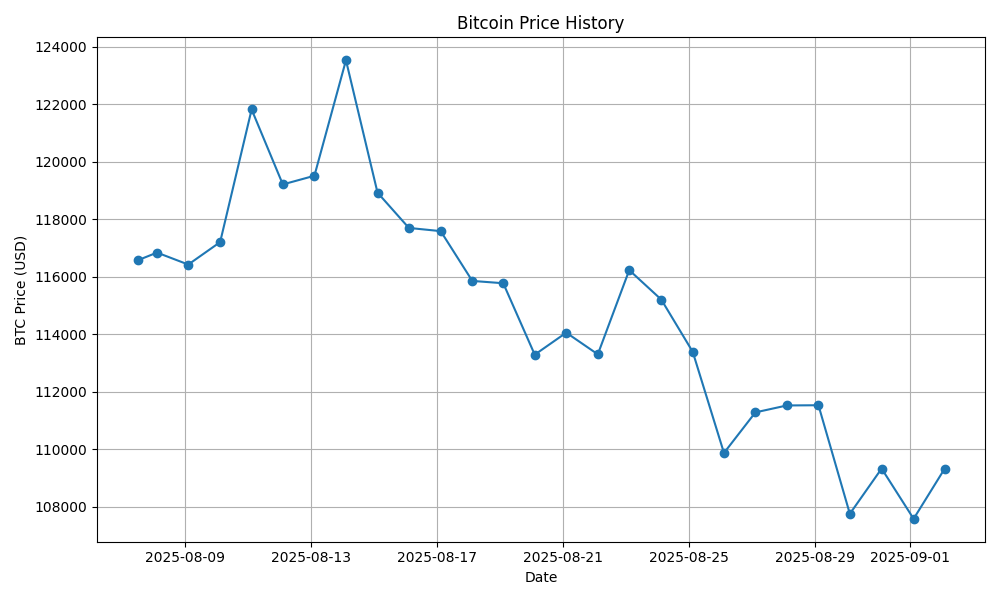
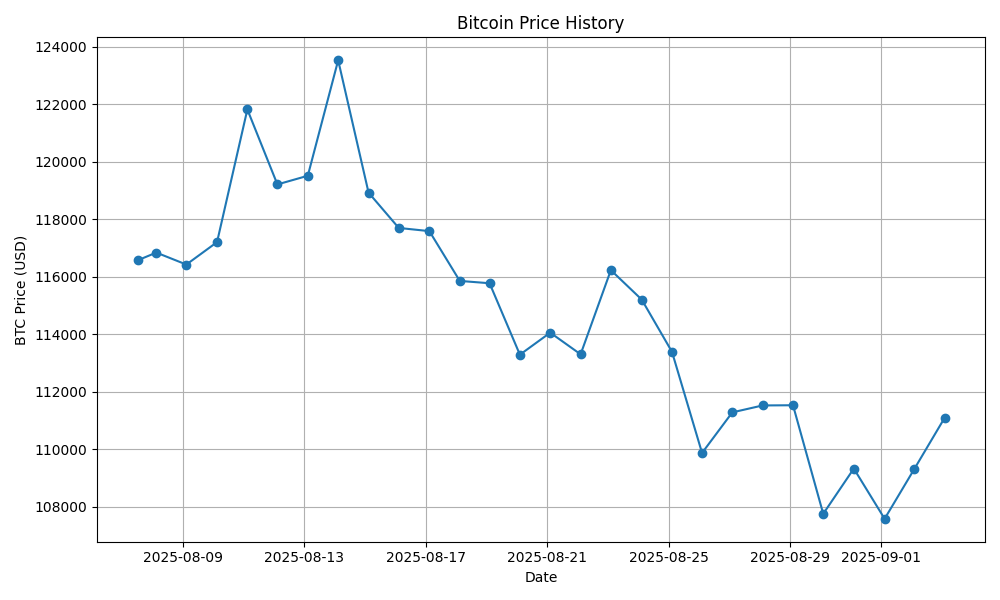
Update: BTC price, chart & README for 2025-09-03

diff --git a/README.md b/README.md
@@ -4,6 +4,6 @@ This project automatically fetches and charts the daily USD price of Bitcoin.
 
 ## Latest Stats
 
-## Latest price (USD): <!--BTC_PRICE-->109321<!--/BTC_PRICE-->
+## Latest price (USD): <!--BTC_PRICE-->111091<!--/BTC_PRICE-->
 
 ![BTC Historical Chart](btc_price_history.png)
